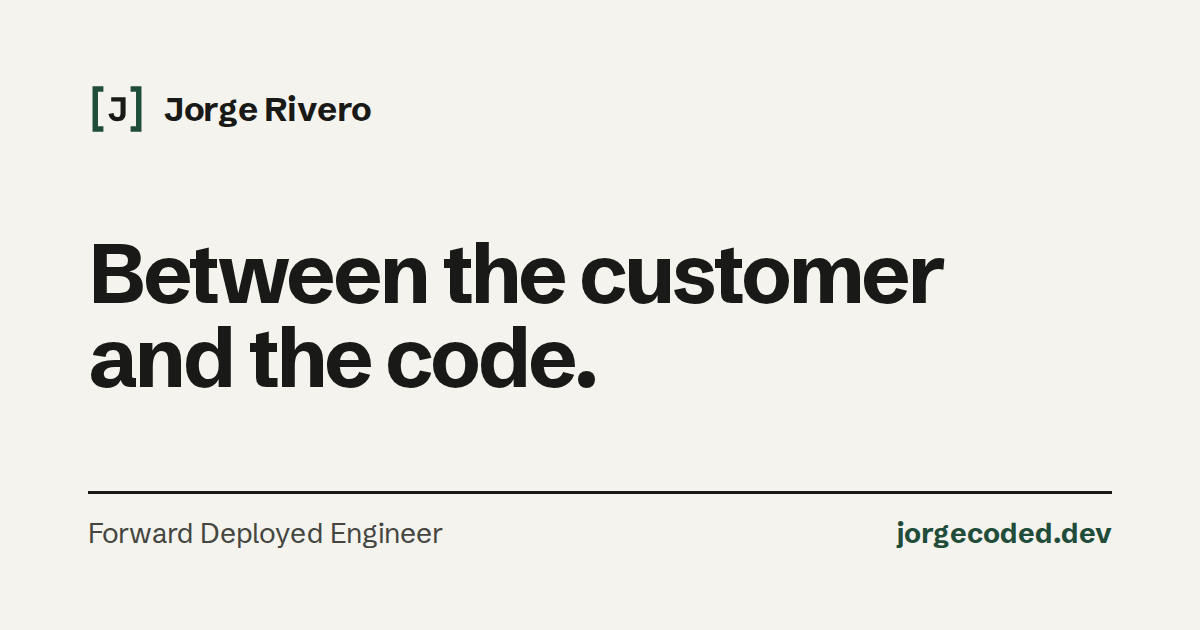
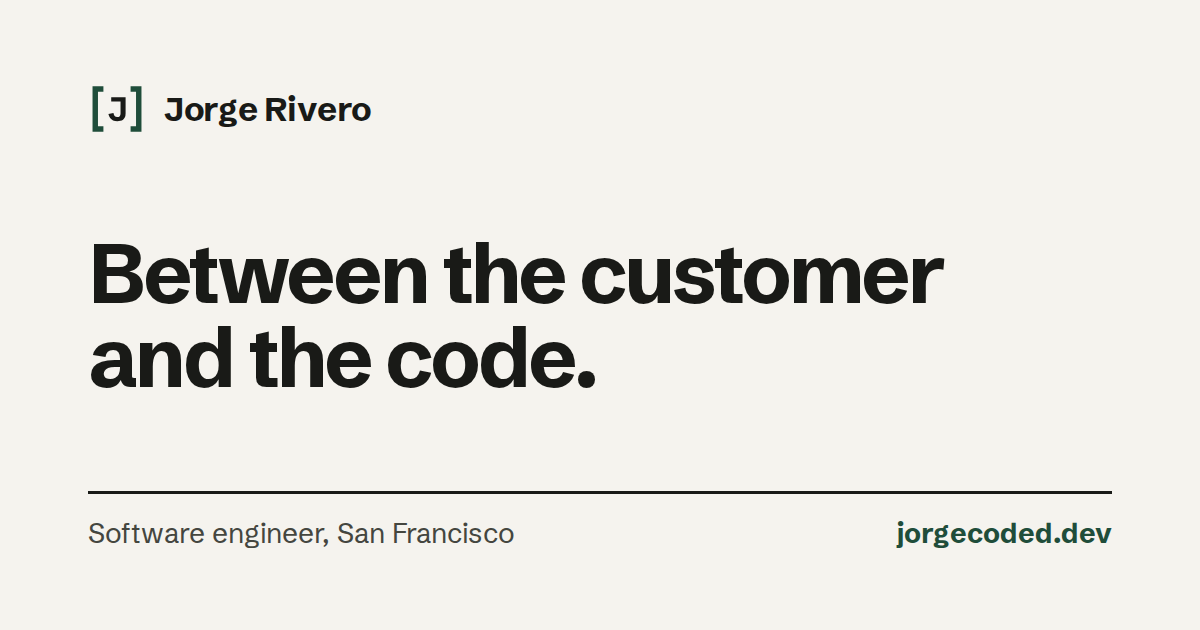
Broaden role line to Software engineer, San Francisco
Claude-Session: https://claude.ai/code/session_01DGTBecYpPXv4Vs7WXxrjxV

Changed region(s): [[0.0617, 0.8143, 0.4317, 0.8746]]

diff --git a/public/index.html b/public/index.html
@@ -3,12 +3,12 @@
 <head>
   <meta charset="utf-8">
   <meta name="viewport" content="width=device-width, initial-scale=1">
-  <title>Jorge Rivero, Forward Deployed Engineer and Solutions Architect</title>
-  <meta name="description" content="Forward Deployed Engineer in San Francisco, most recently a Solutions Architect at RespondIt AI. Between the customer and the code.">
+  <title>Jorge Rivero, Software Engineer in San Francisco</title>
+  <meta name="description" content="Software engineer in San Francisco, most recently a Solutions Architect at RespondIt AI. Between the customer and the code.">
   <link rel="canonical" href="https://jorgecoded.dev/">
   <meta property="og:type" content="website">
-  <meta property="og:title" content="Jorge Rivero, Forward Deployed Engineer and Solutions Architect">
-  <meta property="og:description" content="Forward Deployed Engineer. Between the customer and the code.">
+  <meta property="og:title" content="Jorge Rivero, Software Engineer">
+  <meta property="og:description" content="Software engineer in San Francisco. Between the customer and the code.">
   <meta property="og:url" content="https://jorgecoded.dev/">
   <meta name="twitter:card" content="summary_large_image">
   <meta name="theme-color" content="#f5f3ee" media="(prefers-color-scheme: light)">
@@ -19,7 +19,7 @@
   <meta property="og:image" content="https://jorgecoded.dev/assets/og-image.png">
   <meta property="og:image:width" content="1200">
   <meta property="og:image:height" content="630">
-  <meta property="og:image:alt" content="Jorge Rivero, Forward Deployed Engineer: between the customer and the code.">
+  <meta property="og:image:alt" content="Jorge Rivero, software engineer: between the customer and the code.">
   <link rel="preconnect" href="https://fonts.googleapis.com">
   <link rel="preconnect" href="https://fonts.gstatic.com" crossorigin>
   <link href="https://fonts.googleapis.com/css2?family=Schibsted+Grotesk:wght@400;500;600&display=swap" rel="stylesheet">
@@ -40,7 +40,7 @@
   <main class="frame">
     <header class="hero">
       <div class="hero-inner">
-        <p class="role-line">Forward Deployed Engineer</p>
+        <p class="role-line">Software engineer, San Francisco</p>
         <h1>Between the customer and the code.</h1>
       </div>
       <a class="cue" href="#intro" aria-label="Scroll to more">

diff --git a/public/work/guarded-reporting.html b/public/work/guarded-reporting.html
@@ -16,7 +16,7 @@
   <meta property="og:image" content="https://jorgecoded.dev/assets/og-image.png">
   <meta property="og:image:width" content="1200">
   <meta property="og:image:height" content="630">
-  <meta property="og:image:alt" content="Jorge Rivero, Forward Deployed Engineer: between the customer and the code.">
+  <meta property="og:image:alt" content="Jorge Rivero, software engineer: between the customer and the code.">
   <link rel="preconnect" href="https://fonts.googleapis.com">
   <link rel="preconnect" href="https://fonts.gstatic.com" crossorigin>
   <link href="https://fonts.googleapis.com/css2?family=Schibsted+Grotesk:wght@400;500;600&display=swap" rel="stylesheet">

diff --git a/public/work/phantom-work-orders.html b/public/work/phantom-work-orders.html
@@ -16,7 +16,7 @@
   <meta property="og:image" content="https://jorgecoded.dev/assets/og-image.png">
   <meta property="og:image:width" content="1200">
   <meta property="og:image:height" content="630">
-  <meta property="og:image:alt" content="Jorge Rivero, Forward Deployed Engineer: between the customer and the code.">
+  <meta property="og:image:alt" content="Jorge Rivero, software engineer: between the customer and the code.">
   <link rel="preconnect" href="https://fonts.googleapis.com">
   <link rel="preconnect" href="https://fonts.gstatic.com" crossorigin>
   <link href="https://fonts.googleapis.com/css2?family=Schibsted+Grotesk:wght@400;500;600&display=swap" rel="stylesheet">

diff --git a/public/work/systems-earth.html b/public/work/systems-earth.html
@@ -16,7 +16,7 @@
   <meta property="og:image" content="https://jorgecoded.dev/assets/og-image.png">
   <meta property="og:image:width" content="1200">
   <meta property="og:image:height" content="630">
-  <meta property="og:image:alt" content="Jorge Rivero, Forward Deployed Engineer: between the customer and the code.">
+  <meta property="og:image:alt" content="Jorge Rivero, software engineer: between the customer and the code.">
   <link rel="preconnect" href="https://fonts.googleapis.com">
   <link rel="preconnect" href="https://fonts.gstatic.com" crossorigin>
   <link href="https://fonts.googleapis.com/css2?family=Schibsted+Grotesk:wght@400;500;600&display=swap" rel="stylesheet">
